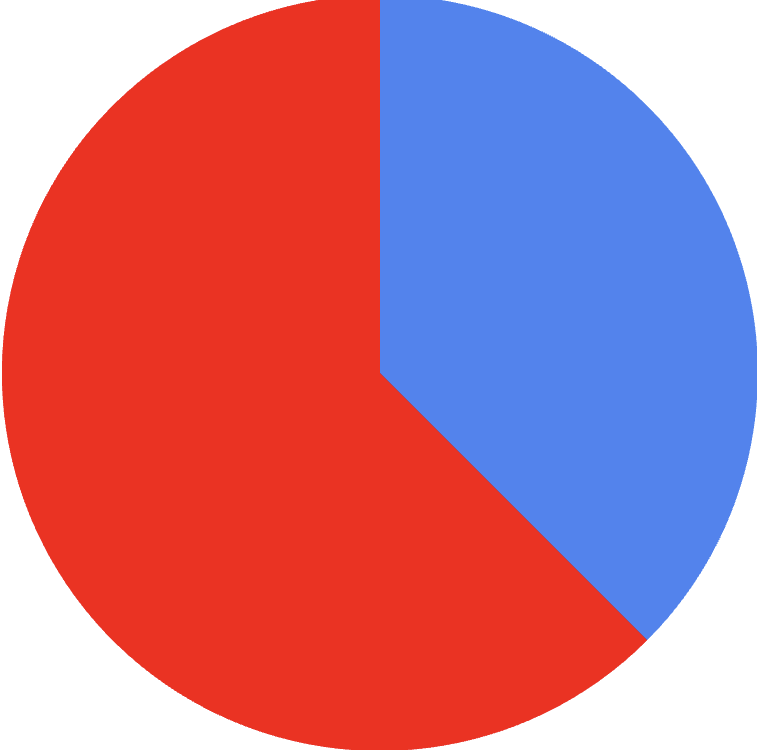
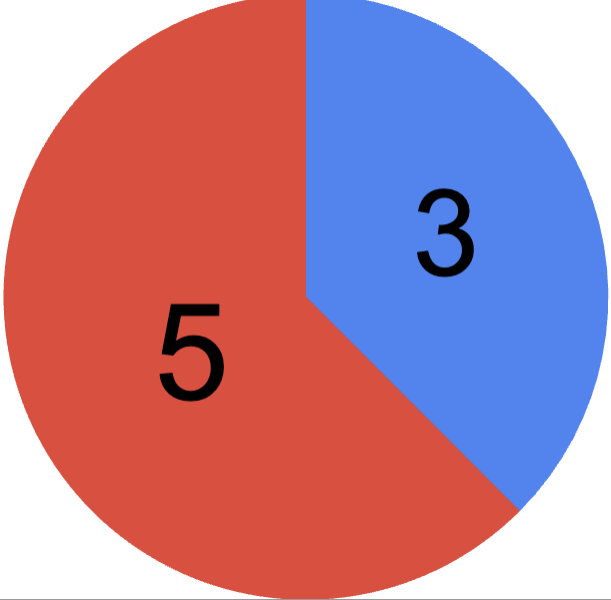
Added more images with numbers in chart

diff --git a/TrialManager.js b/TrialManager.js
@@ -338,4 +338,4 @@ class TrialManager {
         this.currentTrialIndex = 0;
         console.log('Trials loaded from Firebase:', this.trialSequence.length, 'trials');
     }
-}
+}Z